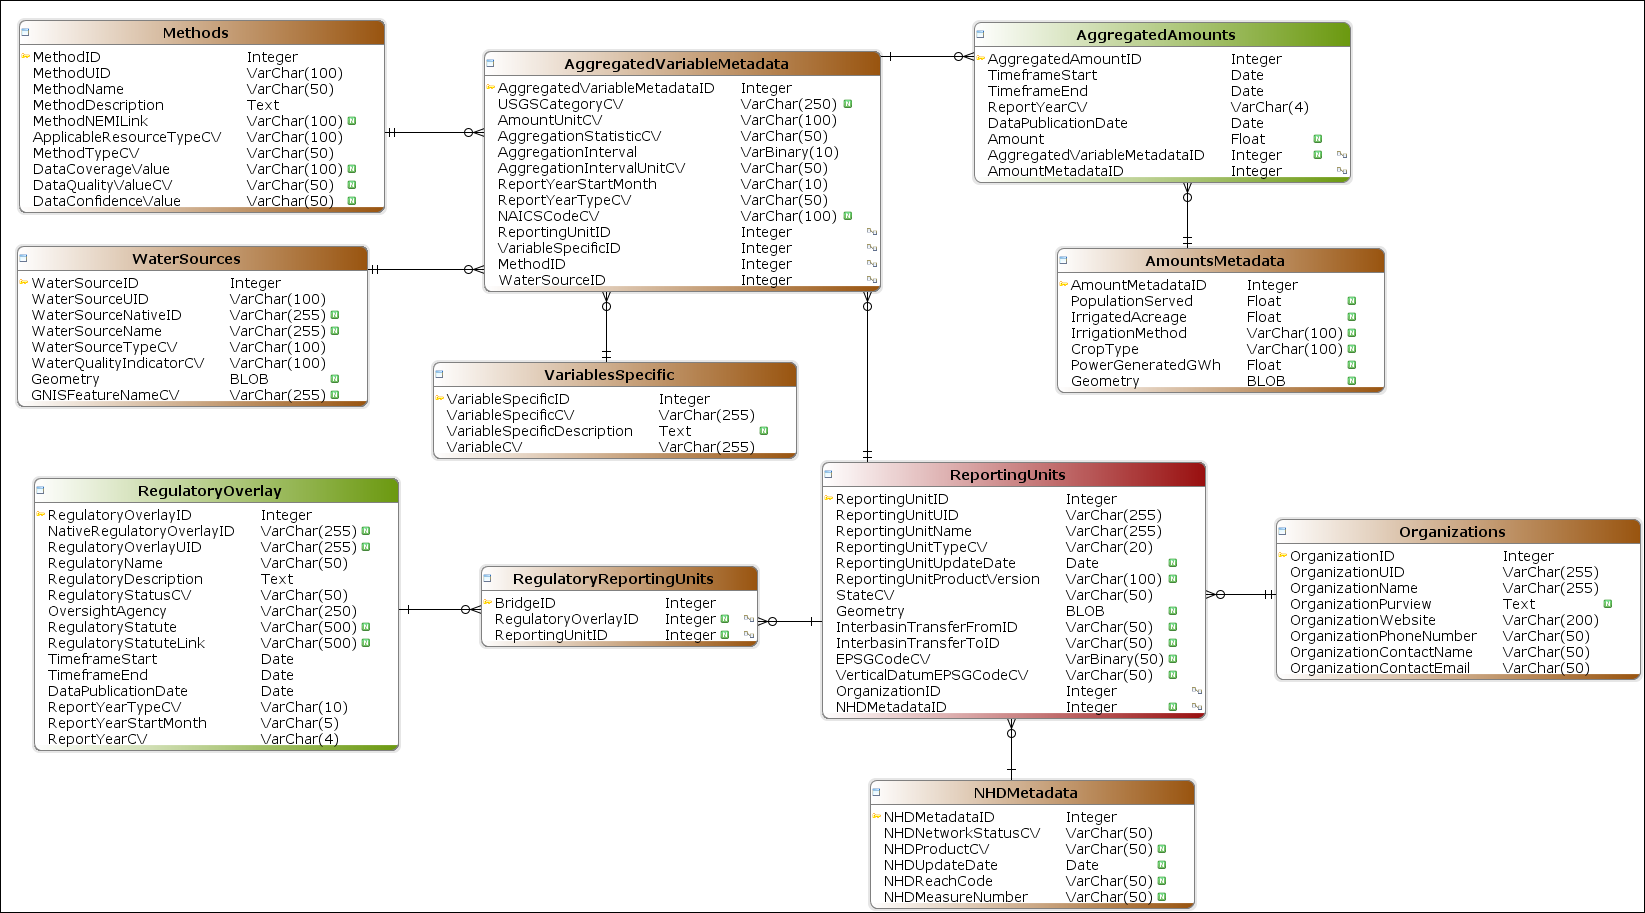
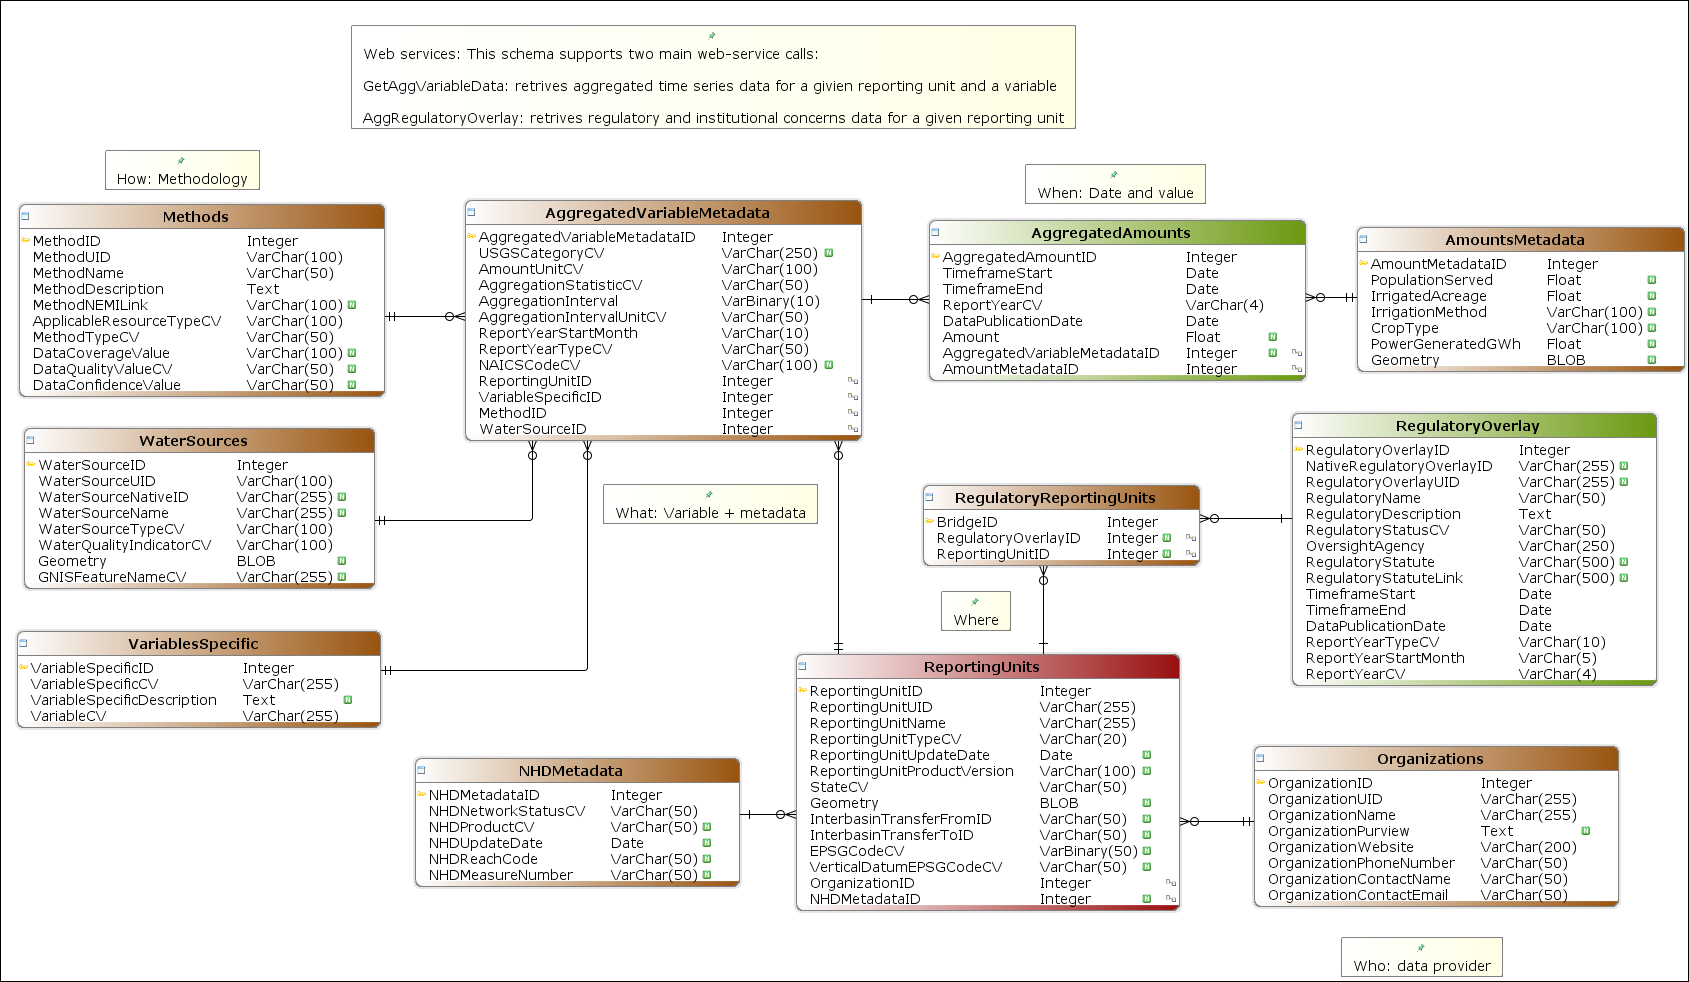
add web service notes
update documentations

Changed region(s): [[0.0, 0.0, 1.0, 1.0]]

diff --git a/docs/diagrams/CVs.html b/docs/diagrams/CVs.html
@@ -14,24 +14,24 @@
 <h1>Diagram: CVs</h1>
 <br>
 <map id="imgmap" name="imgmap">
-<area coords="34, 326, 371, 438" href="../tables/WaDE2_CVs_AggregationStatistic.html" shape="rect">
-<area coords="872, 775, 1209, 887" href="../tables/WaDE2_CVs_EPSGCode.html" shape="rect">
-<area coords="39, 773, 376, 885" href="../tables/WaDE2_CVs_WaterQualityIndicator.html" shape="rect">
-<area coords="32, 25, 369, 137" href="../tables/WaDE2_CVs_WaterAllocationBasis.html" shape="rect">
-<area coords="36, 473, 373, 585" href="../tables/WaDE2_CVs_VerticalDatumEPSGCode.html" shape="rect">
-<area coords="870, 626, 1207, 738" href="../tables/WaDE2_CVs_Variable.html" shape="rect">
-<area coords="871, 469, 1208, 581" href="../tables/WaDE2_CVs_USGSCategory.html" shape="rect">
-<area coords="462, 320, 799, 432" href="../tables/WaDE2_CVs_Units.html" shape="rect">
-<area coords="866, 320, 1203, 432" href="../tables/WaDE2_CVs_ReportYearType.html" shape="rect">
-<area coords="472, 775, 809, 887" href="../tables/WaDE2_CVs_ReportingUnitType.html" shape="rect">
-<area coords="471, 619, 808, 731" href="../tables/WaDE2_CVs_RegulatoryStatus.html" shape="rect">
-<area coords="465, 462, 802, 574" href="../tables/WaDE2_CVs_NHDProduct.html" shape="rect">
-<area coords="465, 171, 802, 283" href="../tables/WaDE2_CVs_NHDNetworkStatus.html" shape="rect">
-<area coords="37, 169, 374, 281" href="../tables/WaDE2_CVs_NAICSCode.html" shape="rect">
-<area coords="450, 21, 787, 133" href="../tables/WaDE2_CVs_MethodType.html" shape="rect">
-<area coords="850, 19, 1187, 131" href="../tables/WaDE2_CVs_LegalStatusCode.html" shape="rect">
-<area coords="861, 168, 1198, 280" href="../tables/WaDE2_CVs_GNISCode.html" shape="rect">
-<area coords="41, 624, 378, 736" href="../tables/WaDE2_CVs_ReportYearCV.html" shape="rect">
+<area coords="43, 431, 380, 543" href="../tables/WaDE2_CVs_AggregationStatistic.html" shape="rect">
+<area coords="873, 876, 1210, 988" href="../tables/WaDE2_CVs_EPSGCode.html" shape="rect">
+<area coords="48, 878, 385, 990" href="../tables/WaDE2_CVs_WaterQualityIndicator.html" shape="rect">
+<area coords="41, 130, 378, 242" href="../tables/WaDE2_CVs_WaterAllocationBasis.html" shape="rect">
+<area coords="45, 578, 382, 690" href="../tables/WaDE2_CVs_VerticalDatumEPSGCode.html" shape="rect">
+<area coords="870, 727, 1207, 839" href="../tables/WaDE2_CVs_Variable.html" shape="rect">
+<area coords="866, 580, 1203, 692" href="../tables/WaDE2_CVs_USGSCategory.html" shape="rect">
+<area coords="470, 432, 807, 544" href="../tables/WaDE2_CVs_Units.html" shape="rect">
+<area coords="862, 430, 1199, 542" href="../tables/WaDE2_CVs_ReportYearType.html" shape="rect">
+<area coords="479, 879, 816, 991" href="../tables/WaDE2_CVs_ReportingUnitType.html" shape="rect">
+<area coords="474, 726, 811, 838" href="../tables/WaDE2_CVs_RegulatoryStatus.html" shape="rect">
+<area coords="475, 580, 812, 692" href="../tables/WaDE2_CVs_NHDProduct.html" shape="rect">
+<area coords="463, 281, 800, 393" href="../tables/WaDE2_CVs_NHDNetworkStatus.html" shape="rect">
+<area coords="46, 274, 383, 386" href="../tables/WaDE2_CVs_NAICSCode.html" shape="rect">
+<area coords="459, 126, 796, 238" href="../tables/WaDE2_CVs_MethodType.html" shape="rect">
+<area coords="859, 124, 1196, 236" href="../tables/WaDE2_CVs_LegalStatusCode.html" shape="rect">
+<area coords="862, 283, 1199, 395" href="../tables/WaDE2_CVs_GNISCode.html" shape="rect">
+<area coords="50, 729, 387, 841" href="../tables/WaDE2_CVs_ReportYearCV.html" shape="rect">
 </map>
 <img src="CVs.png" usemap="#imgmap"></body>
 </HTML>

diff --git a/docs/diagrams/Aggregated.html b/docs/diagrams/Aggregated.html
@@ -14,17 +14,17 @@
 <h1>Diagram: Aggregated</h1>
 <br>
 <map id="imgmap" name="imgmap">
-<area coords="1276, 519, 1640, 679" href="../tables/WaDE2_Organizations.html" shape="rect">
-<area coords="481, 566, 757, 646" href="../tables/WaDE2_RegulatoryReportingUnits.html" shape="rect">
-<area coords="822, 462, 1205, 718" href="../tables/WaDE2_ReportingUnits.html" shape="rect">
-<area coords="870, 780, 1194, 908" href="../tables/WaDE2_NHDMetadata.html" shape="rect">
-<area coords="19, 20, 384, 212" href="../tables/WaDE2_Methods.html" shape="rect">
-<area coords="34, 478, 398, 750" href="../tables/WaDE2_RegulatoryOverlay.html" shape="rect">
-<area coords="1057, 248, 1384, 392" href="../tables/WaDE2_AmountsMetadata.html" shape="rect">
-<area coords="484, 51, 880, 291" href="../tables/WaDE2_AggregatedVariableMetadata.html" shape="rect">
-<area coords="974, 22, 1350, 182" href="../tables/WaDE2_AggregatedAmounts.html" shape="rect">
-<area coords="17, 246, 367, 406" href="../tables/WaDE2_WaterSources.html" shape="rect">
-<area coords="433, 362, 796, 458" href="../tables/WaDE2_VariablesSpecific.html" shape="rect">
+<area coords="1254, 746, 1618, 906" href="../tables/WaDE2_Organizations.html" shape="rect">
+<area coords="923, 485, 1199, 565" href="../tables/WaDE2_RegulatoryReportingUnits.html" shape="rect">
+<area coords="796, 654, 1179, 910" href="../tables/WaDE2_ReportingUnits.html" shape="rect">
+<area coords="415, 758, 739, 886" href="../tables/WaDE2_NHDMetadata.html" shape="rect">
+<area coords="19, 204, 384, 396" href="../tables/WaDE2_Methods.html" shape="rect">
+<area coords="1292, 413, 1656, 685" href="../tables/WaDE2_RegulatoryOverlay.html" shape="rect">
+<area coords="1357, 227, 1684, 371" href="../tables/WaDE2_AmountsMetadata.html" shape="rect">
+<area coords="465, 200, 861, 440" href="../tables/WaDE2_AggregatedVariableMetadata.html" shape="rect">
+<area coords="929, 220, 1305, 380" href="../tables/WaDE2_AggregatedAmounts.html" shape="rect">
+<area coords="24, 428, 374, 588" href="../tables/WaDE2_WaterSources.html" shape="rect">
+<area coords="17, 631, 380, 727" href="../tables/WaDE2_VariablesSpecific.html" shape="rect">
 </map>
 <img src="Aggregated.png" usemap="#imgmap"></body>
 </HTML>

diff --git a/docs/diagrams/Site_Specific.html b/docs/diagrams/Site_Specific.html
@@ -14,17 +14,17 @@
 <h1>Diagram: Site_Specific</h1>
 <br>
 <map id="imgmap" name="imgmap">
-<area coords="829, 640, 1198, 896" href="../tables/WaDE2_Sites.html" shape="rect">
-<area coords="1265, 684, 1629, 844" href="../tables/WaDE2_Organizations.html" shape="rect">
-<area coords="868, 958, 1192, 1086" href="../tables/WaDE2_NHDMetadata.html" shape="rect">
-<area coords="26, 205, 391, 397" href="../tables/WaDE2_Methods.html" shape="rect">
-<area coords="1386, 417, 1713, 561" href="../tables/WaDE2_AmountsMetadata.html" shape="rect">
-<area coords="20, 453, 370, 613" href="../tables/WaDE2_WaterSources.html" shape="rect">
-<area coords="326, 722, 689, 818" href="../tables/WaDE2_VariablesSpecific.html" shape="rect">
-<area coords="437, 18, 917, 210" href="../tables/WaDE2_WaterAllocations.html" shape="rect">
-<area coords="455, 279, 884, 599" href="../tables/WaDE2_SiteVariableMetadata.html" shape="rect">
-<area coords="1004, 409, 1325, 569" href="../tables/WaDE2_SiteVariableAmounts.html" shape="rect">
-<area coords="981, 25, 1377, 265" href="../tables/WaDE2_WaterAllocationAmounts.html" shape="rect">
+<area coords="834, 744, 1203, 1000" href="../tables/WaDE2_Sites.html" shape="rect">
+<area coords="1264, 806, 1628, 966" href="../tables/WaDE2_Organizations.html" shape="rect">
+<area coords="449, 864, 773, 992" href="../tables/WaDE2_NHDMetadata.html" shape="rect">
+<area coords="26, 326, 391, 518" href="../tables/WaDE2_Methods.html" shape="rect">
+<area coords="1340, 507, 1667, 651" href="../tables/WaDE2_AmountsMetadata.html" shape="rect">
+<area coords="40, 559, 390, 719" href="../tables/WaDE2_WaterSources.html" shape="rect">
+<area coords="49, 778, 412, 874" href="../tables/WaDE2_VariablesSpecific.html" shape="rect">
+<area coords="444, 148, 924, 340" href="../tables/WaDE2_WaterAllocations.html" shape="rect">
+<area coords="458, 393, 887, 713" href="../tables/WaDE2_SiteVariableMetadata.html" shape="rect">
+<area coords="965, 503, 1286, 663" href="../tables/WaDE2_SiteVariableAmounts.html" shape="rect">
+<area coords="970, 160, 1366, 400" href="../tables/WaDE2_WaterAllocationAmounts.html" shape="rect">
 </map>
 <img src="Site_Specific.png" usemap="#imgmap"></body>
 </HTML>

diff --git a/docs/diagrams/index.html b/docs/diagrams/index.html
@@ -18,7 +18,7 @@
 <td class="header"><a href="../diagrams/Aggregated.html">Aggregated</a></td>
 </tr>
 <tr>
-<td class="diagramThumb"><a href="../diagrams/Aggregated.html"><img height="276" src="../diagrams/Aggregated.png" width="500"></a></td>
+<td class="diagramThumb"><a href="../diagrams/Aggregated.html"><img height="290" src="../diagrams/Aggregated.png" width="500"></a></td>
 </tr>
 </table>
 <br>
@@ -27,7 +27,7 @@
 <td class="header"><a href="../diagrams/CVs.html">CVs</a></td>
 </tr>
 <tr>
-<td class="diagramThumb"><a href="../diagrams/CVs.html"><img height="366" src="../diagrams/CVs.png" width="500"></a></td>
+<td class="diagramThumb"><a href="../diagrams/CVs.html"><img height="409" src="../diagrams/CVs.png" width="500"></a></td>
 </tr>
 </table>
 <br>
@@ -36,7 +36,7 @@
 <td class="header"><a href="../diagrams/Site_Specific.html">Site_Specific</a></td>
 </tr>
 <tr>
-<td class="diagramThumb"><a href="../diagrams/Site_Specific.html"><img height="316" src="../diagrams/Site_Specific.png" width="500"></a></td>
+<td class="diagramThumb"><a href="../diagrams/Site_Specific.html"><img height="299" src="../diagrams/Site_Specific.png" width="500"></a></td>
 </tr>
 </table>
 <br>

diff --git a/docs/index.html b/docs/index.html
@@ -51,7 +51,7 @@
 <div class="paragraph">
 <p>
 <b>Documented with DbWrench  </b>
-<k>14 Jan 2019 - 04:48:38 PM</k>
+<k>15 Jan 2019 - 10:14:54 AM</k>
 </p>
 </div>
 </body>
